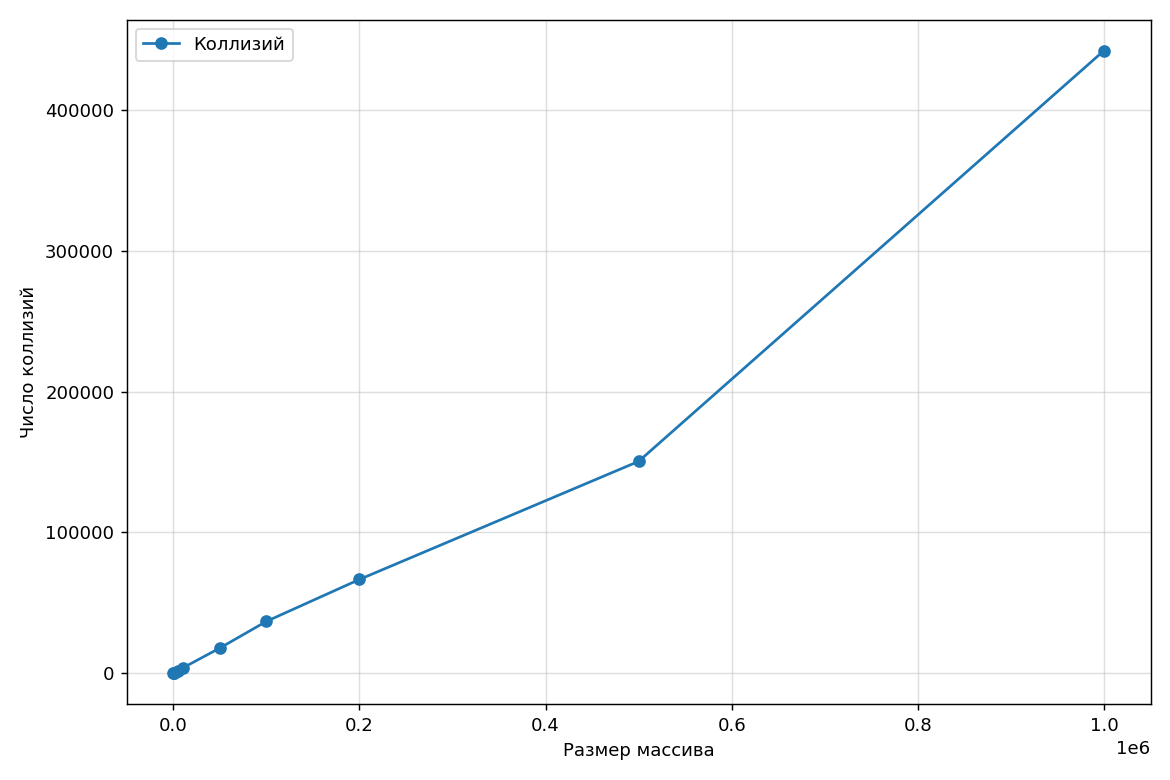
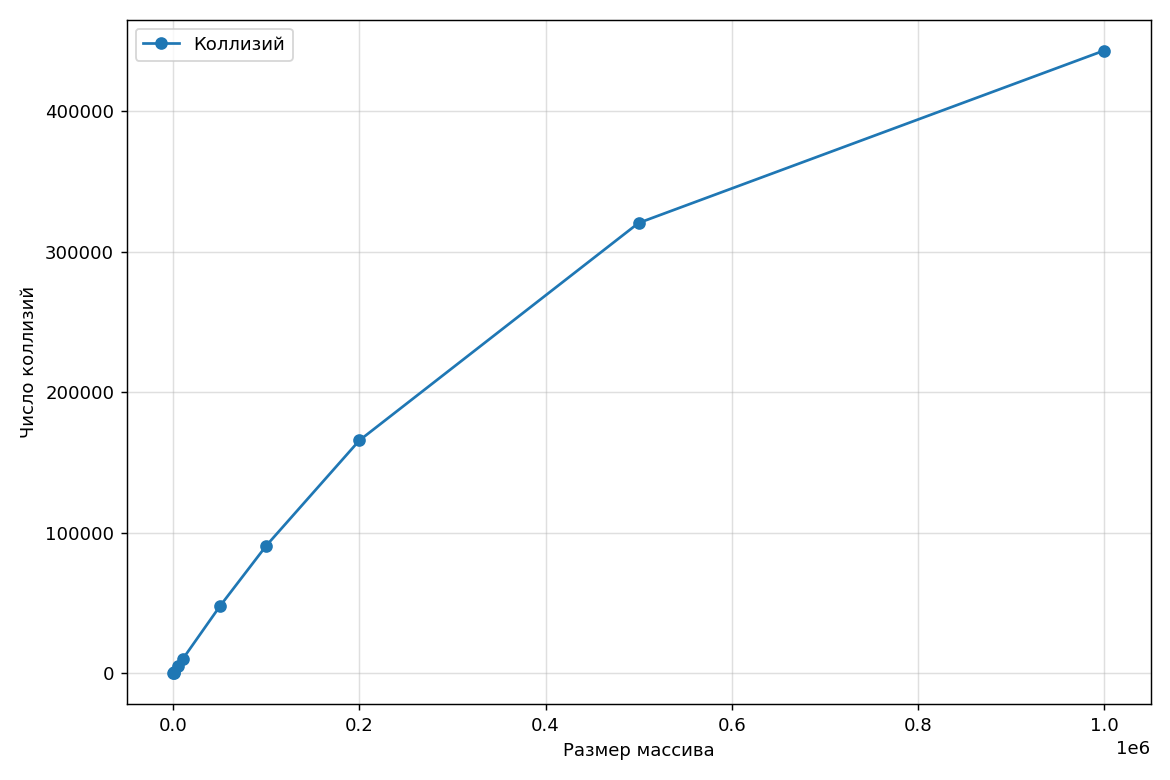
fin after fix

diff --git a/Lab2/hsh_tb.cpp b/Lab2/hsh_tb.cpp
@@ -46,16 +46,27 @@ HashTable* hsh_tb_bld(const Student* a, int n)
         unsigned int h = hsh_fn(a[i].name) % t->size;
 
         HSH_TB_Node* comp = t->cells[h];
+
+        bool dup = false;
+        bool empt = false;
+        if (comp == nullptr)
+            empt == true;
         while(comp != nullptr)
         {
-            if (strcmp(comp->student->name, a[i].name) != 0)
+            if (strcmp(comp->student->name, a[i].name) == 0)
             {
-                t->colls++;
-                //printf("сколлизировли %u: '%s' <- '%s'\n", h, comp->student->name, a[i].name);
+                dup = true;
+                
                 break;
             }
             comp = comp->nxt;
 
+        }
+
+        if (!empt && !dup)
+        {
+            t->colls++;
+            //printf("коллизия %u: '%s'\n", a[i].name);
         }
 
         HSH_TB_Node* tmp = new HSH_TB_Node;